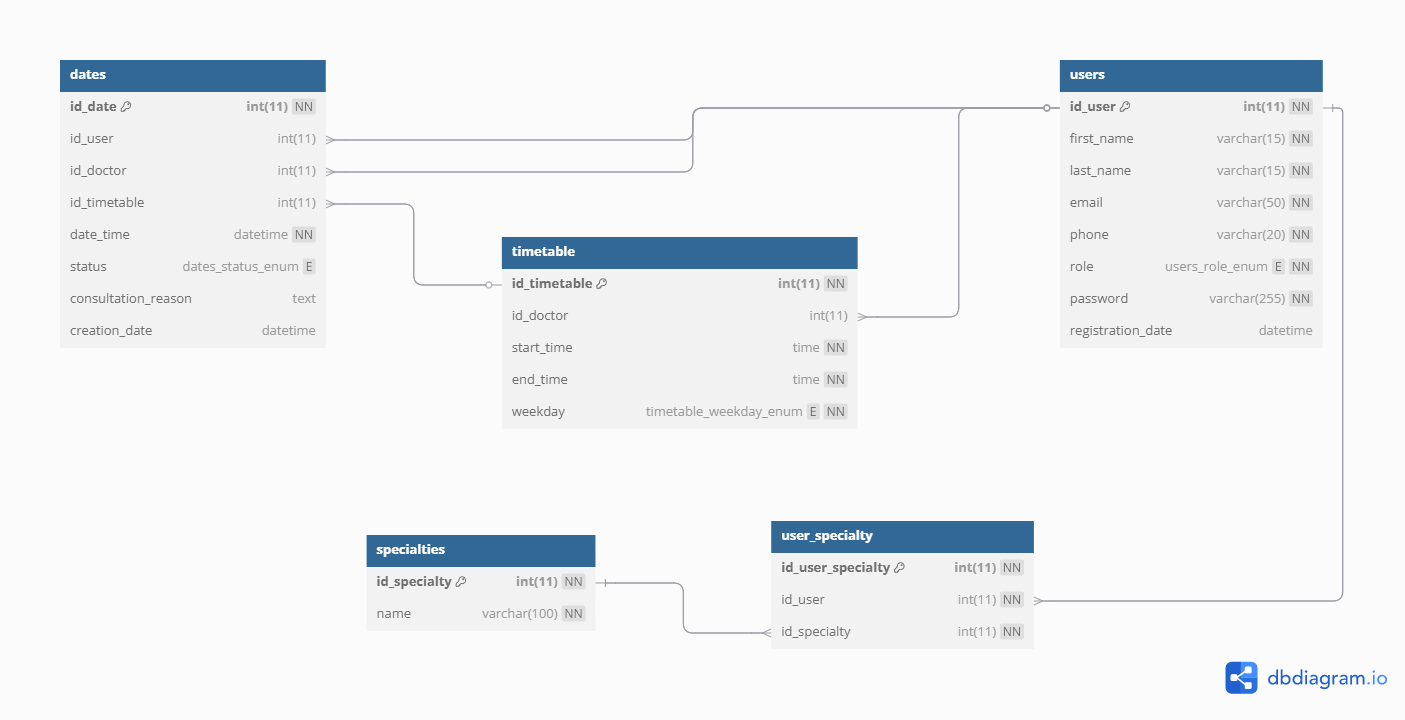
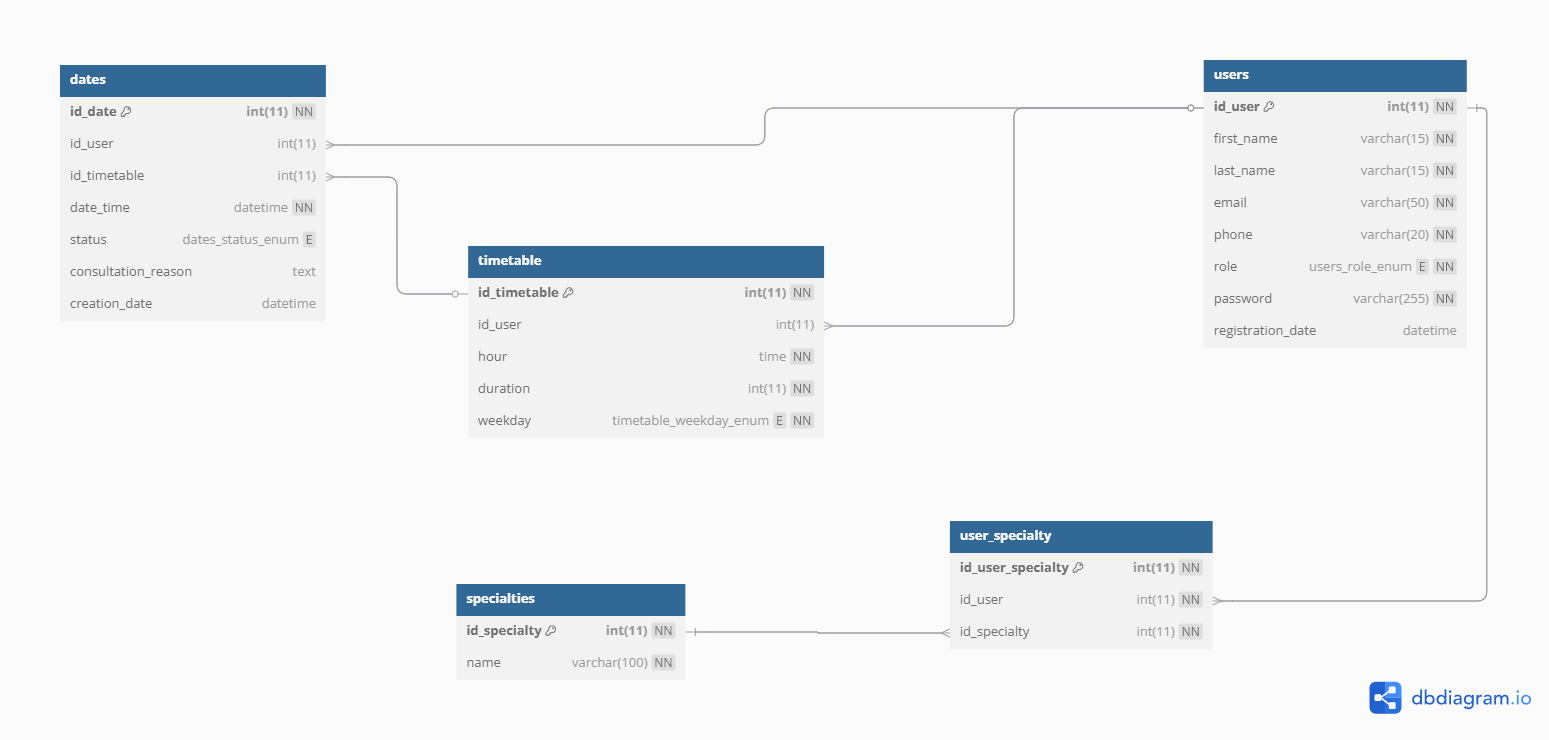
Actualizacion base de datos

diff --git a/BACK-END/crud_basic/src/main/java/com/sena/crud_basic/model/timeTableDTO.java b/BACK-END/crud_basic/src/main/java/com/sena/crud_basic/model/timeTableDTO.java
@@ -1,0 +1,34 @@
+package com.sena.crud_basic.model;
+
+import java.time.LocalDateTime;
+import java.time.LocalTime;
+
+import jakarta.persistence.Column;
+import jakarta.persistence.Entity;
+import jakarta.persistence.GeneratedValue;
+import jakarta.persistence.GenerationType;
+import jakarta.persistence.Id;
+
+
+
+@Entity(name = "timetables")
+public class timeTableDTO {
+    
+    @Id
+    @GeneratedValue(strategy = GenerationType.IDENTITY)
+    @Column(name = "id_timetable")
+    private int id_timetable;
+
+    @Column(name = "id_user")
+    private usersDTO id_user;
+
+    @Column(name = "hour")
+    private LocalDateTime hour;
+
+    @Column(name = "duration")
+    private LocalTime duration;
+
+
+
+
+}

diff --git a/BACK-END/crud_basic/src/main/java/com/sena/crud_basic/model/datesDTO.java b/BACK-END/crud_basic/src/main/java/com/sena/crud_basic/model/datesDTO.java
@@ -1,0 +1,25 @@
+package com.sena.crud_basic.model;
+
+import jakarta.persistence.Column;
+import jakarta.persistence.Entity;
+import jakarta.persistence.GeneratedValue;
+import jakarta.persistence.GenerationType;
+import jakarta.persistence.Id;
+
+
+
+@Entity(name = "dates")
+public class datesDTO {
+
+    @Id
+    @GeneratedValue(strategy = GenerationType.IDENTITY)
+    @Column(name = "id_date")
+    private int id_date;
+
+    @Column(name = "id_user")
+    private usersDTO id_user;
+
+    @Column(name = "id_timeTable")
+    private timeTableDTO id_timeTable;
+
+}
